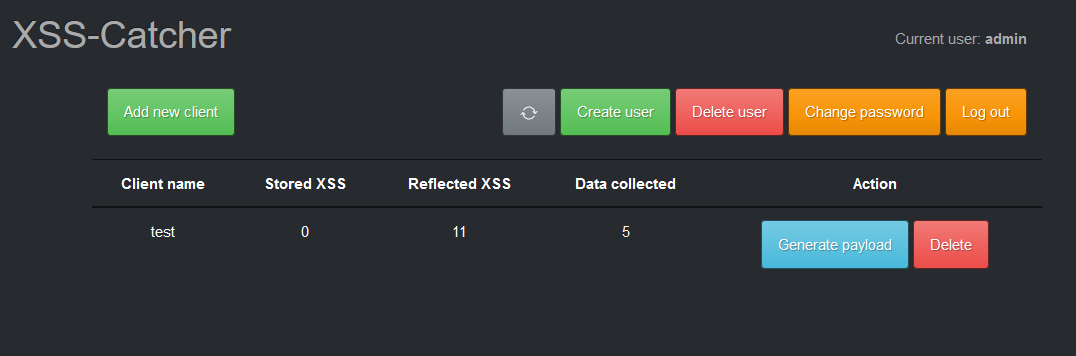
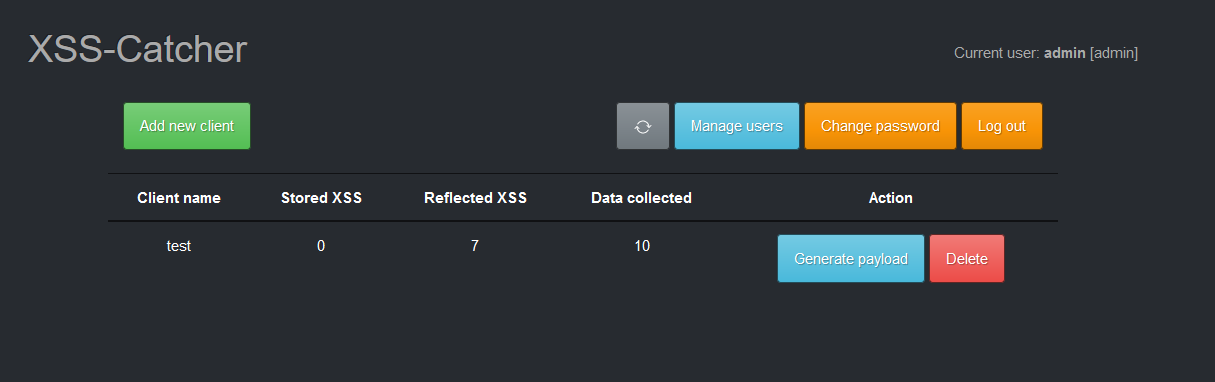
added user management

diff --git a/client/src/components/ManageUsers.vue b/client/src/components/ManageUsers.vue
@@ -22,8 +22,29 @@
           v-for="user in orderBy(users, 'username')"
           v-bind:key="user.id"
         >
-          <td>{{ user.username }}</td>
+          <td v-if="user.is_admin"><b>{{ user.username }}</b> [admin]</td>
+          <td v-else><b>{{ user.username }}</b></td>
           <td class='text-right'>
+            <b-button
+              v-if="user.is_admin"
+              @click="promoteUser(0, user.id)"
+              type="button"
+              variant="danger"
+            >Demote
+            </b-button>
+            <b-button
+              v-else
+              @click="promoteUser(1, user.id)"
+              type="button"
+              variant="success"
+            >Promote
+            </b-button>
+            <b-button
+              @click="resetPassword(user.id, user.username)"
+              type="button"
+              variant="warning"
+            >Reset password
+            </b-button>
             <b-button
               @click="to_delete = user.id"
               v-b-modal.delete-user-modal
@@ -35,10 +56,16 @@
         </tr>
       </tbody>
     </table>
+    <div class="text-right">
+      <b-button variant="success" v-b-modal.create-user-modal>
+        Create user
+      </b-button>
+      <b-button type="reset" @click="cleanup">Cancel</b-button>
+    </div>
     <br v-if="show_alert" />
     <b-alert
       show
-      variant="danger"
+      :variant="alert_type"
       v-if="show_alert"
     >{{ alert_msg }}</b-alert>
     <b-modal
@@ -61,6 +88,8 @@
       </b-form>
     </b-modal>
 
+    <CreateUser />
+
   </b-modal>
 
 </template>
@@ -70,19 +99,25 @@
 import axios from 'axios'
 import Vue2Filters from 'vue2-filters'
 
+import CreateUser from './CreateUser'
+
 axios.defaults.headers.post['Content-Type'] =
   'application/x-www-form-urlencoded'
 
 const basePath = '/api'
 
 export default {
+  components: {
+    CreateUser
+  },
   mixins: [Vue2Filters.mixin],
   data () {
     return {
       users: [],
       to_delete: 0,
       show_alert: false,
-      alert_msg: ''
+      alert_msg: '',
+      alert_type: 'danger'
     }
   },
   methods: {
@@ -104,13 +139,47 @@ export default {
         .then(response => {
           this.$refs.deleteUserModal.hide()
           this.getUsers()
+          this.promote = 0
         })
         .catch(error => {
           if (error.response.status === 401) { this.$router.push({ name: 'Login' }) } else {
             this.$refs.deleteUserModal.hide()
             this.alert_msg = error.response.data.detail
             this.show_alert = true
+            this.alert_type = 'danger'
           }
+        })
+    },
+    promoteUser (promotion, userId) {
+      const path = basePath + '/user/' + userId
+
+      var payload = new URLSearchParams()
+
+      payload.append('is_admin', promotion)
+
+      axios.post(path, payload)
+        .then(response => {
+          this.getUsers()
+          this.alert_msg = ''
+          this.alert_type = 'success'
+          this.show_alert = false
+        })
+        .catch(error => {
+          if (error.response.status === 401) { this.$router.push({ name: 'Login' }) } else {
+            this.show_alert = true
+            this.alert_msg = error.response.data.detail
+            this.alert_type = 'danger'
+          }
+        })
+    },
+    resetPassword (userId, username) {
+      const path = basePath + '/user/' + userId + '/reset_password'
+
+      axios.post(path)
+        .then(response => {
+          this.alert_msg = 'New password for user ' + username + ' is: ' + response.data.detail
+          this.show_alert = true
+          this.alert_type = 'success'
         })
     },
     cleanup () {
@@ -118,6 +187,7 @@ export default {
       this.to_delete = 0
       this.show_alert = false
       this.alert_msg = ''
+      this.$refs.manageUsersModal.hide()
     }
   }
 

diff --git a/client/src/components/Index.vue b/client/src/components/Index.vue
@@ -40,11 +40,8 @@
             <b-button>
               <b-icon-arrow-repeat @click="getClients" style="width: 20px; height: 20px;"></b-icon-arrow-repeat>
             </b-button>
-            <b-button variant="success" v-b-modal.create-user-modal>
-              Create user
-            </b-button>
-            <b-button variant="danger" v-b-modal.manage-users-modal>
-              Delete user
+            <b-button v-if="user.is_admin" variant="info" v-b-modal.manage-users-modal>
+              Manage users
             </b-button>
             <b-button variant="warning" v-b-modal.change-password-modal>
               Change password
@@ -174,7 +171,6 @@
       :owner_id=viewed_client.owner_id
       :user_id=user.id
     />
-    <CreateUser />
     <ChangePassword />
     <ManageUsers />
 
@@ -190,7 +186,6 @@ import GetPayload from './GetPayload'
 import ViewData from './ViewData'
 import ViewXSS from './ViewXSS'
 import ViewClient from './ViewClient'
-import CreateUser from './CreateUser'
 import ChangePassword from './ChangePassword'
 import ManageUsers from './ManageUsers'
 
@@ -206,7 +201,6 @@ export default {
     ViewData,
     ViewXSS,
     ViewClient,
-    CreateUser,
     ChangePassword,
     ManageUsers
   },

diff --git a/client/src/components/CreateUser.vue b/client/src/components/CreateUser.vue
@@ -36,7 +36,7 @@
       id="view-password-modal"
       title="User created"
       hide-footer
-      @hide="$refs.createUserModal.hide()"
+      @hide="cleanup"
     >
       <p>Username: {{ username }}</p>
       <p>Password: {{ data.detail }}</p>
@@ -91,6 +91,7 @@ export default {
       this.show_alert = false
       this.alert_msg = ''
       this.$refs.createUserModal.hide()
+      this.$parent.$parent.$parent.getUsers()
     }
   }
 }

diff --git a/server/app/api/user.py b/server/app/api/user.py
@@ -62,25 +62,72 @@ def change_password():
     return jsonify({'status': 'OK'}), 200
 
 
+@bp.route('/user/<id>/reset_password', methods=['POST'])
+@login_required
+def reset_password(id):
+
+    if not current_user.is_admin:
+        return jsonify({'status': 'error', 'detail': 'Only an administrator can do that'}), 403
+
+    user = User.query.filter_by(id=id).first_or_404()
+
+    password = user.generate_password()
+
+    user.set_password(password)
+
+    user.first_login = True
+
+    db.session.commit()
+    return jsonify({'status': 'OK', 'detail': password}), 200
+
+
 @bp.route('/user', methods=['GET'])
 @login_required
 def get_user():
     return jsonify(current_user.to_dict()), 200
 
 
-@bp.route('/user/<id>', methods=['DELETE'])
+@bp.route('/user/<id>', methods=['DELETE', 'POST'])
 @login_required
-def delete_user(id):
+def edit_user(id):
 
-    if len(User.query.all()) <= 1:
-        return jsonify({'status': 'error', 'detail': 'Can\'t delete the only user'}), 400
+    if request.method == 'DELETE':
 
-    user = User.query.filter_by(id=id).first_or_404()
+        if len(User.query.all()) <= 1:
+            return jsonify({'status': 'error', 'detail': 'Can\'t delete the only user'}), 400
 
-    db.session.delete(user)
-    db.session.commit()
+        if current_user.id == int(id):
+            return jsonify({'status': 'error', 'detail': 'Can\'t delete yourself'}), 400
 
-    return jsonify({'status': 'OK'}), 200
+        user = User.query.filter_by(id=id).first_or_404()
+
+        db.session.delete(user)
+        db.session.commit()
+
+        return jsonify({'status': 'OK'}), 200
+
+    elif request.method == 'POST':
+
+        if not current_user.is_admin:
+            return jsonify({'status': 'error', 'detail': 'Only an administrator can do that'}), 403
+
+        if current_user.id == int(id):
+            return jsonify({'status': 'error', 'detail': 'Can\'t demote yourself'}), 400
+
+        user = User.query.filter_by(id=id).first_or_404()
+
+        data = request.form
+
+        if ('is_admin' not in data.keys()):
+            return jsonify({'status': 'error', 'detail': 'Missing data'}), 400
+
+        if (int(data['is_admin']) != 1) and (int(data['is_admin']) != 0):
+            return jsonify({'status': 'error', 'detail': 'Invalid data'}), 400
+
+        user.is_admin = (int(data['is_admin']) == 1)
+
+        db.session.commit()
+        return jsonify({'status': 'OK'}), 200
 
 
 @bp.route('/user/all', methods=['GET'])
